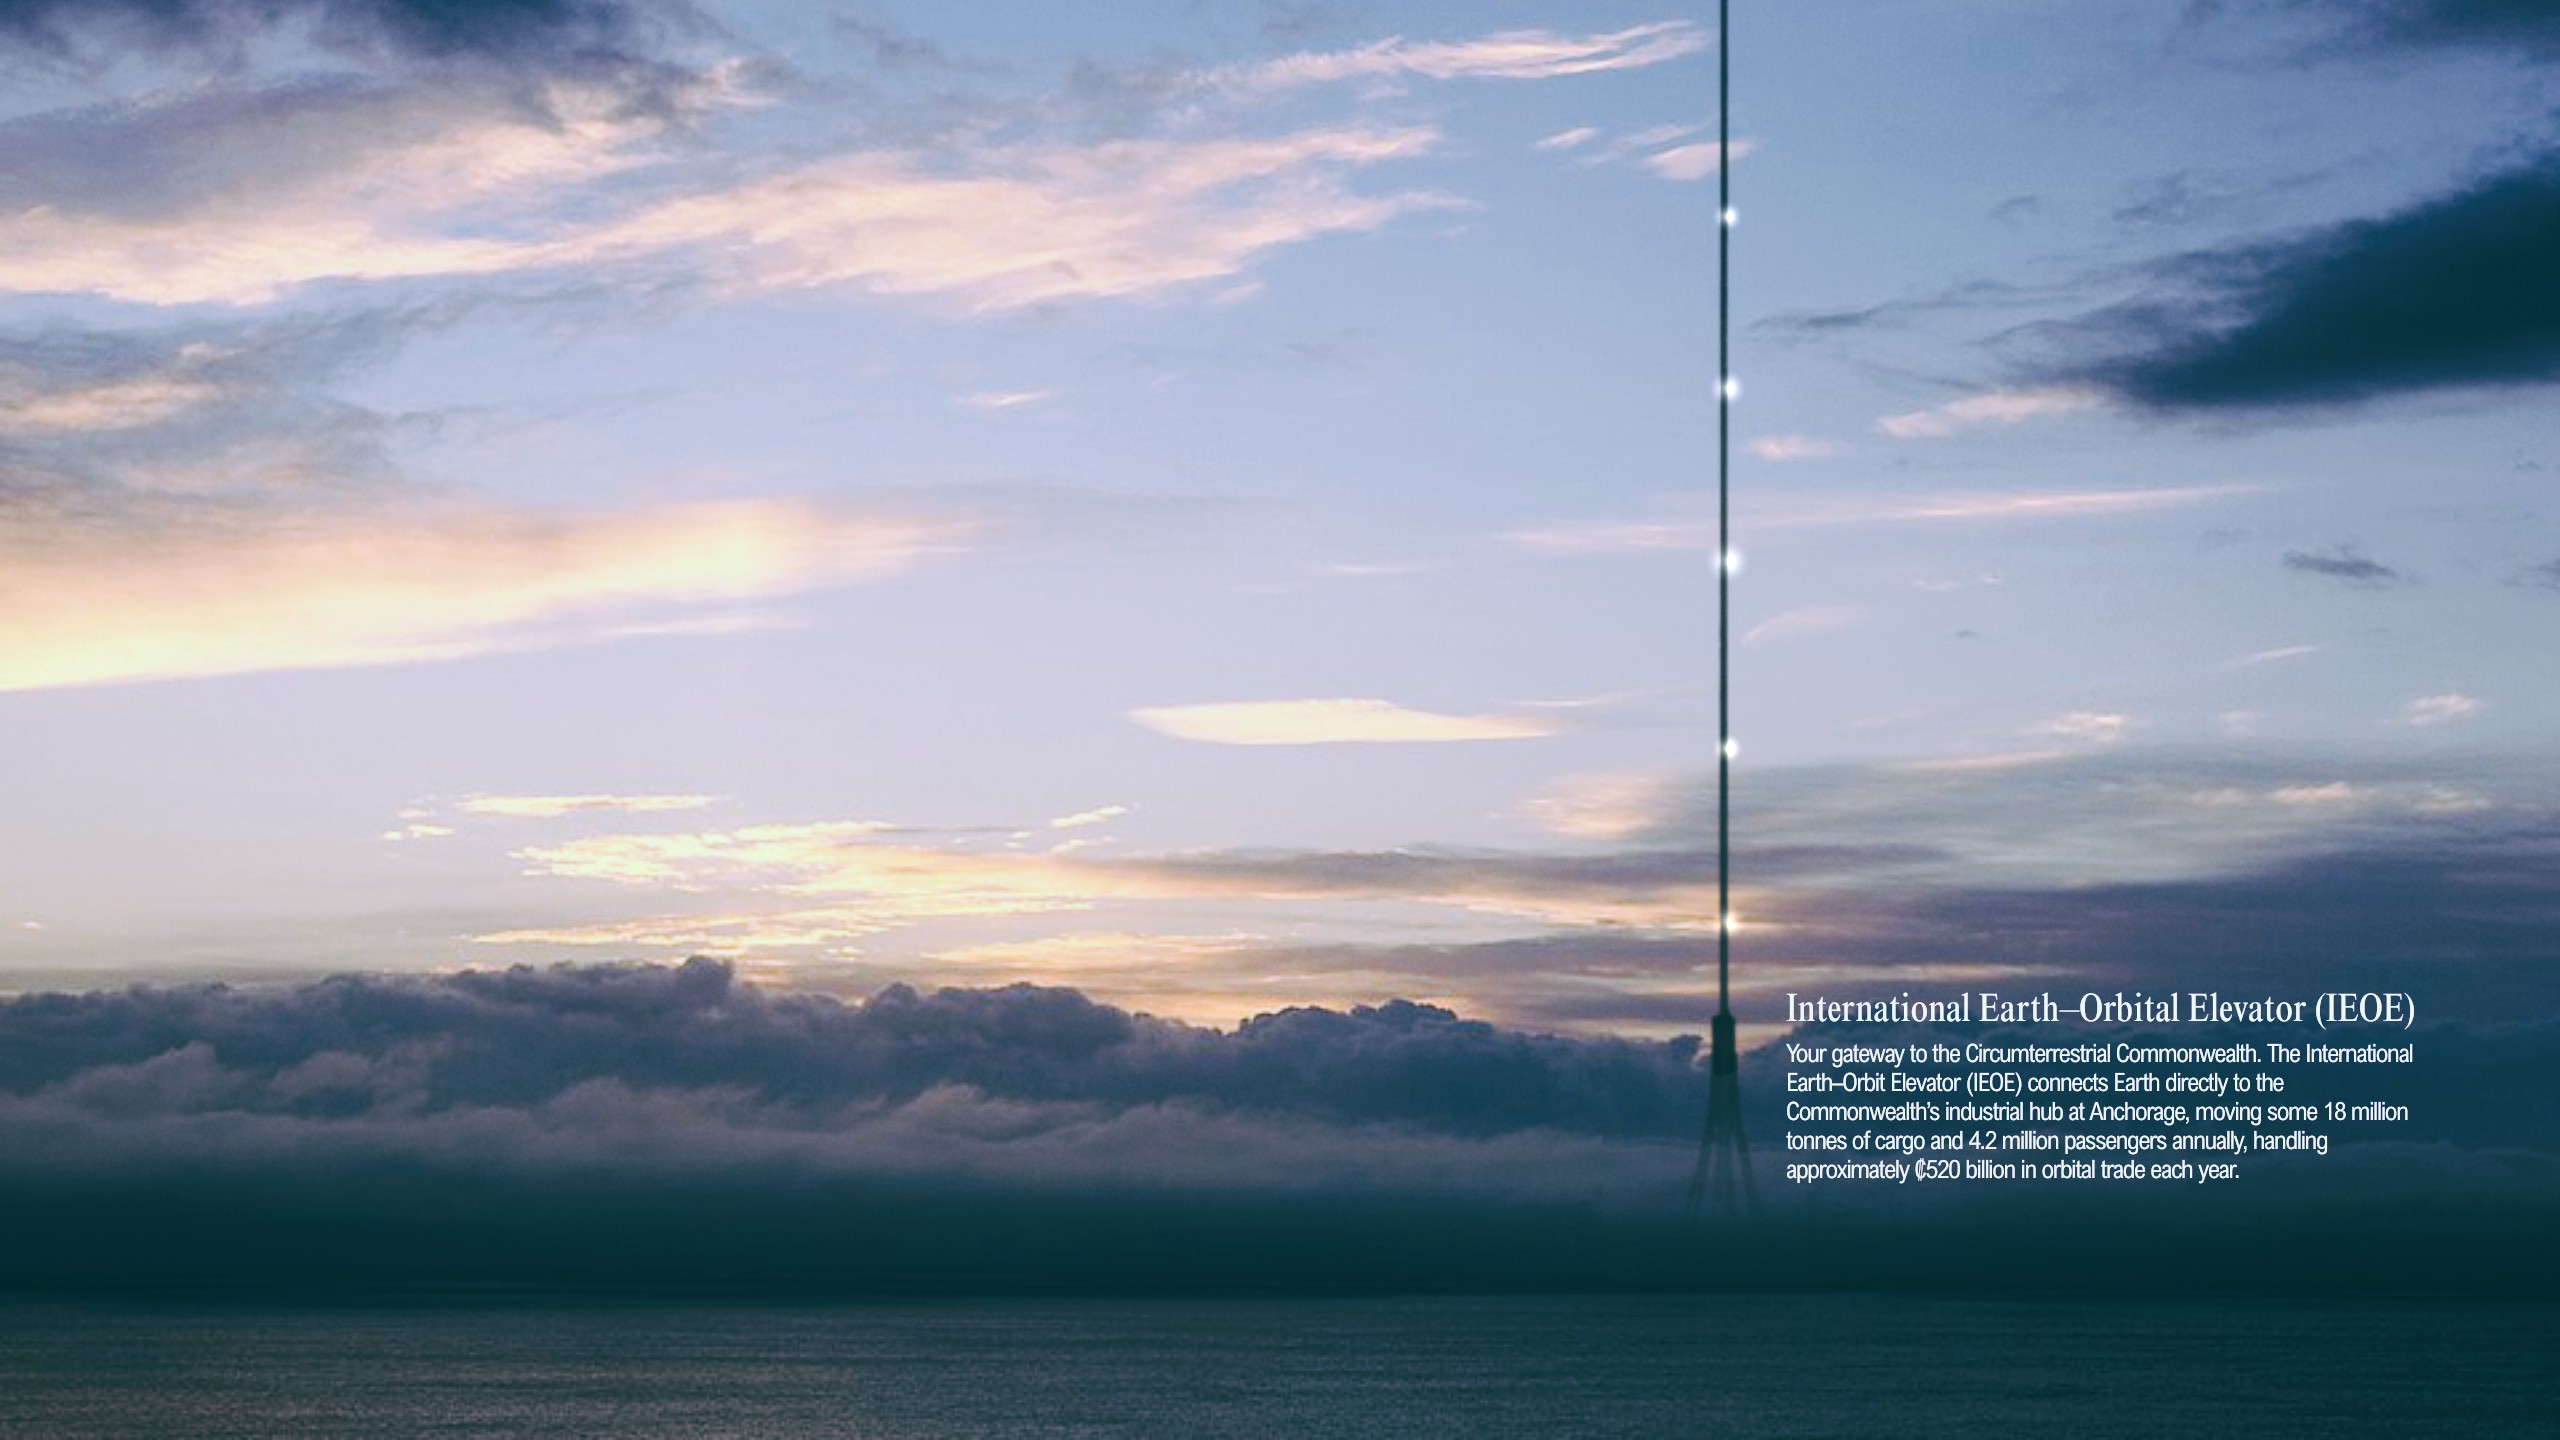
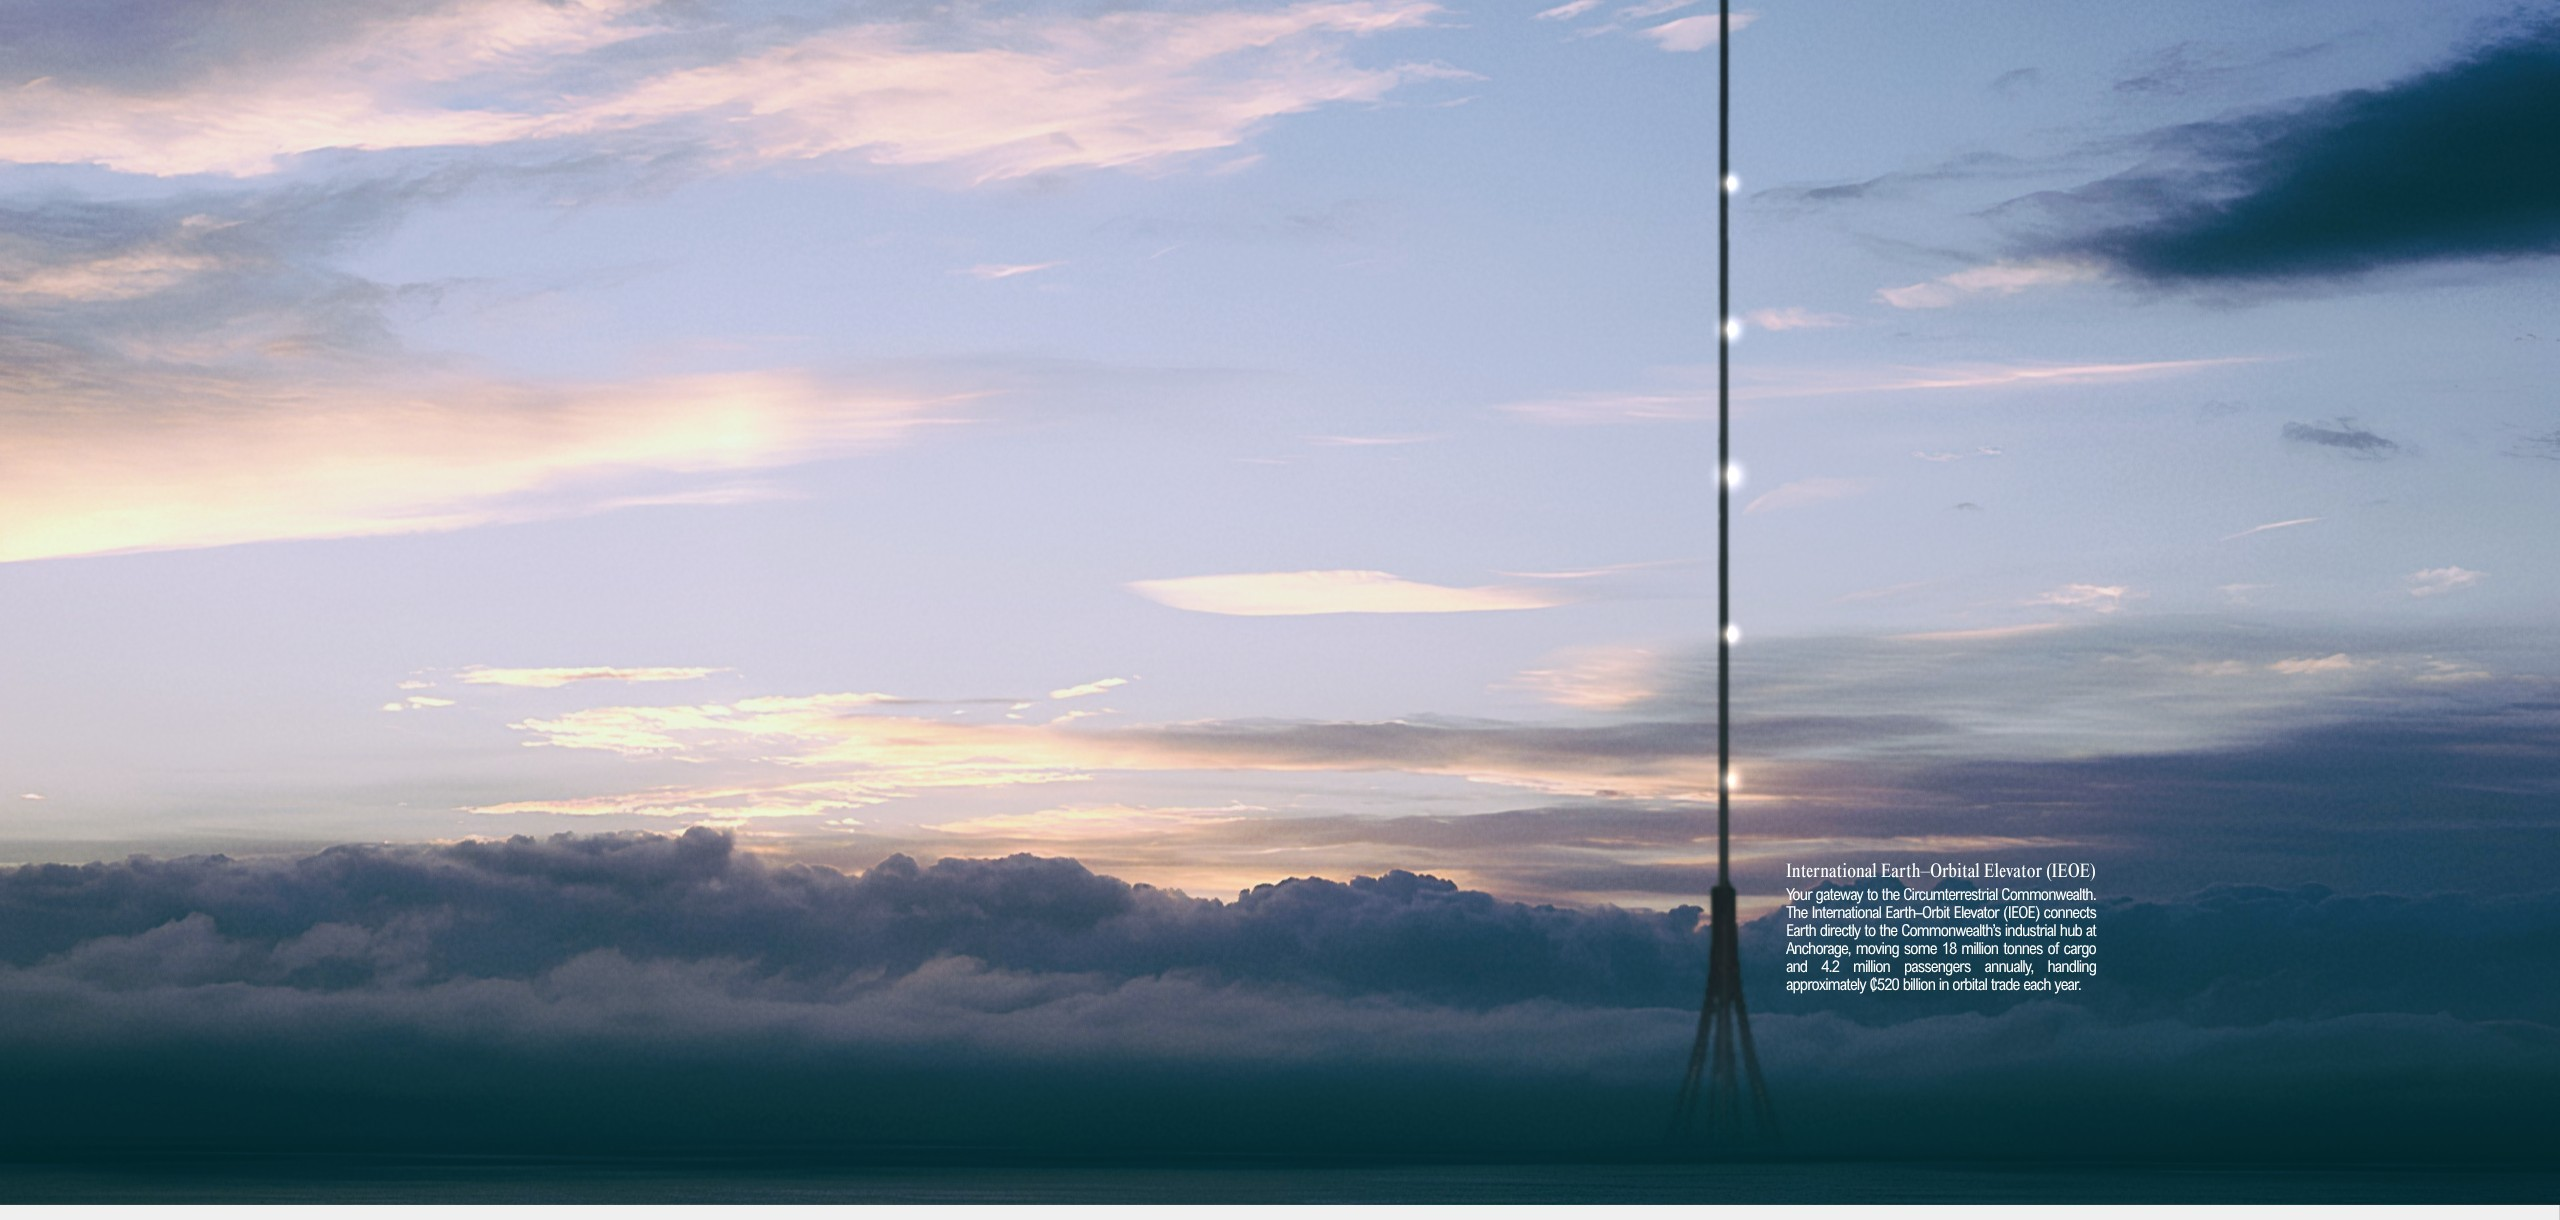
Crop the elevator plate and print its footer band in code

diff --git a/css/terminal.css b/css/terminal.css
@@ -818,21 +818,24 @@ img.dith{display:block;}
 
 /* --- the main menu ---
    A full-bleed photographic plate with a left scrim, so the title and the
-   buttons read over any image. The ground is the dark the plate is graded to,
-   so a missing image is a dark menu rather than a broken one. The image is
-   set by js/shell.js, which knows the single-file asset table. */
-#menu{display:none;position:fixed;inset:0;z-index:100;overflow:auto;
+   buttons read over any image, and a printed footer band beneath it. The
+   ground is the dark the plate is graded to, so a missing image is a dark
+   menu rather than a broken one. The image is set by js/shell.js, which
+   knows the single-file asset table. */
+#menu{display:none;position:fixed;inset:0;z-index:100;overflow:hidden;
+  flex-direction:column;background:#0b1826;}
+#menu.on{display:flex;}
+body.menu-on{background:#0b1826;}
+.menu-stage{position:relative;flex:1 1 auto;min-height:0;overflow:auto;
   background:#0b1826 center/cover no-repeat;
   /* a blue-hour stand-in until the photograph loads */
   background-image:linear-gradient(180deg,
     #08121d 0%, #10283c 42%, #1c3a54 68%, #0b1826 100%);}
-#menu.on{display:block;}
-body.menu-on{background:#0b1826;}
 /* the scrim: darkest at the left, clearing to the right */
-#menu::after{content:"";position:fixed;inset:0;pointer-events:none;z-index:1;
+.menu-stage::after{content:"";position:absolute;inset:0;pointer-events:none;z-index:1;
   background:
     linear-gradient(90deg, rgba(12,14,11,.88) 0%, rgba(12,14,11,.6) 34%, rgba(12,14,11,.06) 68%, rgba(12,14,11,0) 100%);}
-#menu::before{content:"Circumterrestrial Commonwealth \2014 Office of the Prime Minister";
+.menu-stage::before{content:"Circumterrestrial Commonwealth \2014 Office of the Prime Minister";
   position:relative;z-index:2;display:block;background:rgba(28,31,25,.72);color:var(--bar-txt);
   font-family:var(--f-ui);font-size:12px;letter-spacing:.09em;text-transform:uppercase;
   padding:4px 10px;border-bottom:1px solid rgba(233,234,226,.14);}
@@ -876,6 +879,17 @@ body.menu-on{background:#0b1826;}
 .menu-text .dim{color:#b9bcb2;font-size:13.5px;}
 .menu-warn{margin-top:26px;max-width:600px;font-family:var(--f-ui);font-size:12px;
   color:#e9a08f;border-left:2px solid #e9a08f;padding-left:9px;line-height:1.45;}
+
+/* the printed band under the plate, on the same stock as an instrument */
+.menu-footer{flex:0 0 auto;background:#f1f0ea;color:#1d1d1b;
+  font-family:"Times New Roman",Times,Georgia,serif;padding:20px 56px 24px;}
+.menu-footer h1{margin:0 0 9px;font-size:21px;font-weight:400;}
+.menu-footer p{margin:0;font-size:13px;line-height:1.5;max-width:1560px;}
+@media (max-width:700px){
+  .menu-footer{padding:16px 20px 20px;}
+  .menu-footer h1{font-size:18px;}
+  .menu-footer p{font-size:12px;}
+}
 
 /* Options > Animations off. The ceremony still resolves, it just does not draw. */
 body.no-motion .sig-draw #sigpath,body.no-motion .sig-draw .sigpath{transition:none;}

diff --git a/js/shell.js b/js/shell.js
@@ -110,11 +110,25 @@ const Shell = (function () {
 
 
   function menuShell(inner) {
-    return `<div class="menu-plate">
-      <div class="menu-title"><span class="w">Ways</span><span class="a">&amp;</span><span class="m">Means</span></div>
-      <div class="menu-body">${inner}</div>
-      ${storageOK ? "" : `<div class="menu-warn">Browser storage is unavailable, so slots will not
-        survive closing this tab. Use <b>Export to file</b> in Options to keep a game.</div>`}
+    return `<div class="menu-stage">
+      <div class="menu-plate">
+        <div class="menu-title"><span class="w">Ways</span><span class="a">&amp;</span><span class="m">Means</span></div>
+        <div class="menu-body">${inner}</div>
+        ${storageOK ? "" : `<div class="menu-warn">Browser storage is unavailable, so slots will not
+          survive closing this tab. Use <b>Export to file</b> in Options to keep a game.</div>`}
+      </div>
+    </div>
+    <div class="menu-footer">
+      <h1>Life in Space Needs People to Run It.</h1>
+      <p>Ways &amp; Means puts you in the position of Prime Minister Adriana Eireann Flash of the
+      Circumterrestrial Commonwealth, a federation of orbital habitats bound together by trade,
+      shared infrastructure, and mutual dependence. Its near-post-scarcity economy makes
+      manufactured goods abundant, while habitable volume, thermal capacity, substrate, and
+      transportation remain tightly constrained. The outcome is a sophisticated rentier economy
+      where private consortiums, public utilities, and federal institutions compete to manage the
+      Commonwealth's most vital resources. Navigate interparty relations, your governmental
+      coalition, parliament, and foreign affairs to keep this sophisticated nation and economy
+      running.</p>
     </div>`;
   }
 
@@ -122,7 +136,7 @@ const Shell = (function () {
      window.__ASSETS; on disk it is a relative path. Either way a missing
      image leaves the dark ground the CSS already sets. */
   function paintMenu() {
-    const m = document.getElementById("menu");
+    const m = document.querySelector("#menu .menu-stage");
     if (!m) return;
     const path = "img/menu/tether.jpg";
     const url = (typeof window !== "undefined" && window.__ASSETS && window.__ASSETS[path]) || path;
